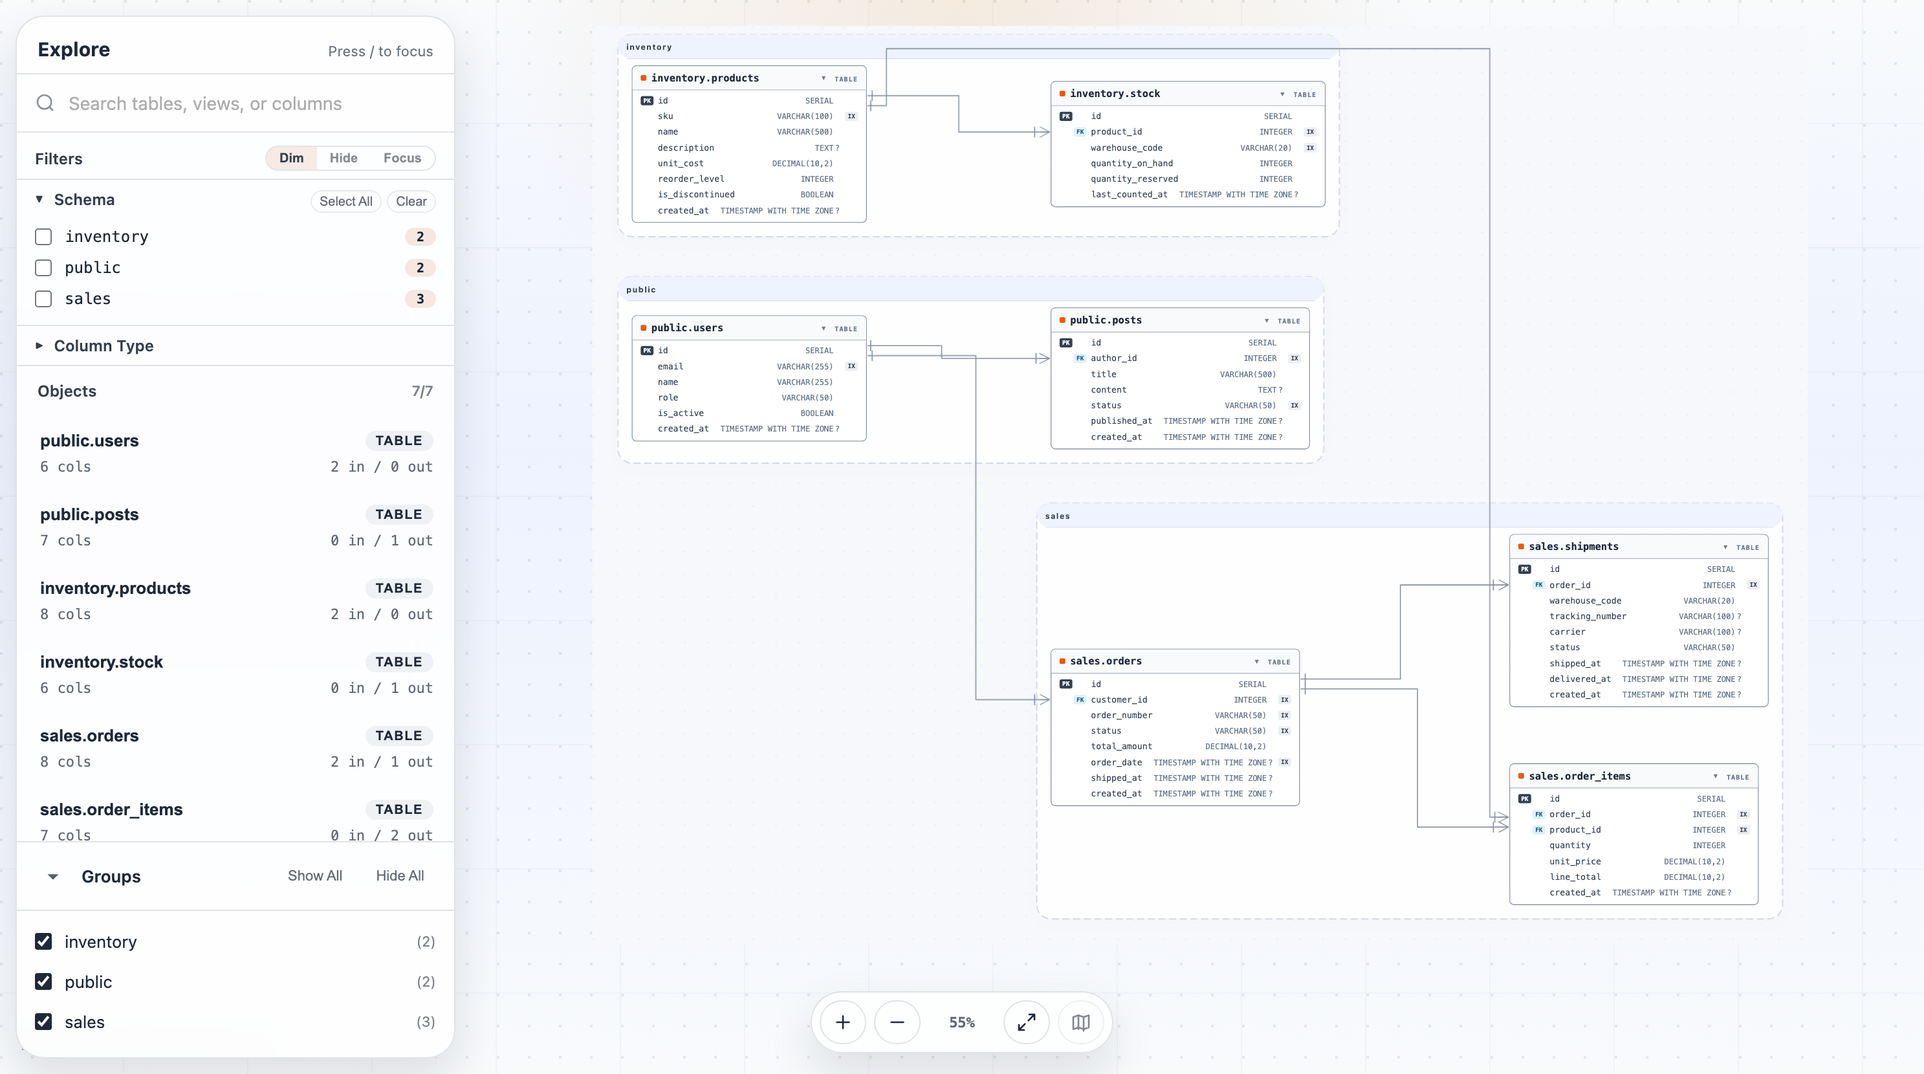
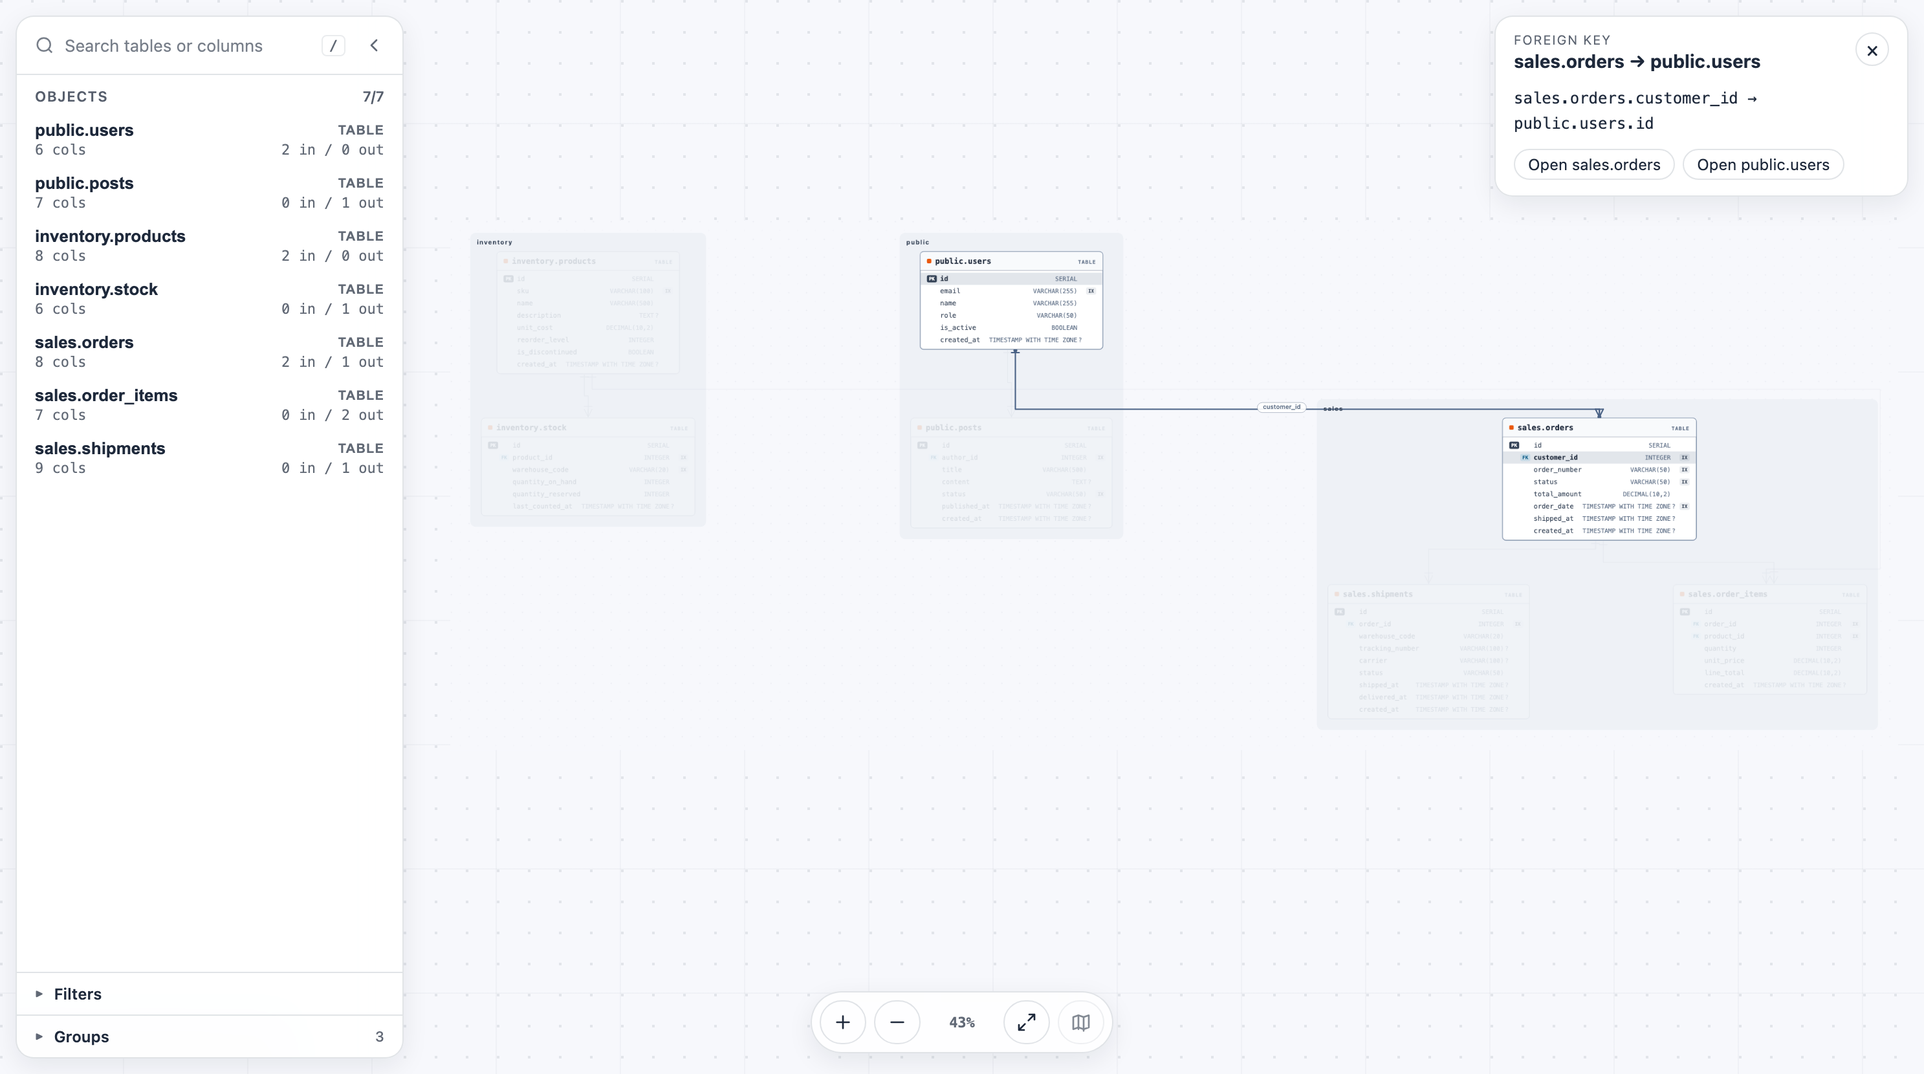
docs: describe group surfaces, the reworked viewer sidebar, and diff legends
The CLI reference covers how groups are drawn, the viewer's sidebar,
drawer, and minimap placement, its keyboard shortcuts and relationship
line navigation, what the URL hash records, and the diff legend; the
README and agent skill mention shareable relationship links and the
legend. ARCHITECTURE.md describes the shared badge and group colors,
the group boundary rule, and the viewer changes, and the README viewer
preview is re-captured with a relationship selected.

diff --git a/ARCHITECTURE.md b/ARCHITECTURE.md
@@ -254,9 +254,9 @@ CI job), and `make bench` times those layouts.
 
 ## 11. Rendering
 
-- **Theme** (`relune-render-theme`) — Shared palettes and theme-facing DTOs consumed by both renderers. `ThemeColors` includes `accent_color` for viewer controls and `selection_color`, the blue-grey used by both renderers for hovered, highlighted, and selected elements, so it never shares a hue with kind marks or review severities.
-- **SVG** (`relune-render-svg`) — Geometry, edge paths, labels, themes, optional embedded CSS. Tables, views, and enums share one positioned graph and are styled by node/edge kind. When a `DiagramOverlay` is provided (`diff` module), change kind and risk get separate visuals: a changed card is outlined in its change kind's color (`ThemeColors::diff`, dashed when removed) with a `+` / `−` / `~` marker in the header's text inset, a card added or removed as a whole is tinted throughout, and a changed row of a modified card gets a faint row tint and a marker in the inset, so marking needs no extra width; a changed type is drawn as `before → after` with the current type emphasized; changed relationship lines take the change color, a heavier stroke, and a dash when removed. Independently, a card with review findings gets a solid pill straddling its top border naming the highest severity and how many findings carry it (`breaking 1`, colors from `ThemeColors::risk`, whose magenta / orange / indigo / slate hues never repeat a change kind's green / red / amber, so a removed card's outline and its `breaking` label stay two signals). Tooltips list the change summary, its details, and every finding. Nodes, rows, and edges carry `diff-added` / `diff-removed` / `diff-modified` and `risk-<severity>` classes for downstream styling; unchanged cards keep their normal colors as context. Visual conventions: node cards use the theme's neutral surface, a 1px border, and a header divider, with the node kind shown only by a small colored mark before the table name; column rows draw the name left-aligned and the type right-aligned, with PK / FK badges, a `?` nullable marker, and the IX badge in fixed per-node slots (`relune_layout::metrics::ColumnSlots`) so they line up down the card; names and types share one clip per node; PK / FK / IX badges use per-theme colors that step down in weight (solid neutral PK, blue FK, grey IX), and the legend draws the same badges; edge arrow uses an open-chevron marker with `userSpaceOnUse` for constant size; cardinality markers use enlarged viewBoxes for density resilience. FK lines are thin strokes in the theme's quiet `edge_stroke`, while enum and view lines are dashed in their kind mark's hue; hovering a line recolours it in `selection_color`, with no glow or animation. Line labels stay in static SVG so the file reads on its own. Text and attribute values go through the shared escaper, which also replaces characters XML 1.0 forbids (C0 controls other than tab/newline/CR, U+FFFE, U+FFFF) with U+FFFD so the file always parses.
-- **HTML** (`relune-render-html`) — Wraps SVG with interactive behavior (pan/zoom, search, filters, grouping toggles, highlights) and embeds node/edge kind metadata for client-side features. Hover uses a lightweight popover plus subtle 1-hop preview, while click promotes a node into fixed selection and opens the detail drawer; highlighted tables are outlined in a per-theme blue-grey `--selection-color` rather than glowing, so selection never shares a hue with kind marks or warnings; neighbors that reference the focused table get a dashed outline and the tables it references a solid one, so direction reads without a second hue. Nodes are indexed once at load, and hover only touches the previewed neighborhood without rebuilding the object browser; clicking a line (each line is also a focusable button activated with Enter or Space), or a relationship in a table's drawer, selects that relationship: its path and ports, both endpoint tables, and every column on each end (all columns of a composite key) are emphasized, and a relation card in the drawer's place lists one `from.column → to.column` line per column pair. The card is a live region that takes focus when chosen from the keyboard, and closing it returns to the originating drawer. Each line gets a wide transparent hit path in the viewer only, so the thin stroke stays easy to click at any zoom, and focus that would scroll the clipped viewport is turned into a pan. Line labels are hidden in the viewer until a line is hovered, focused, highlighted, or selected. Search, the object browser, and URL restoration share one metadata matcher (names, schema, id, column names and types), so tooltip and badge text never match. Shareable URL hashes write list values (facets, hidden groups) as repeated parameters, and keyboard shortcuts ignore Ctrl/Cmd/Alt chords. When a `DiagramOverlay` is provided, each table's metadata (JSON) carries `diff_kind` and `diff_details`, each column `diff_kind` and `previous_data_type`, each edge `diff_kind`, and each table's review findings go into `issues` with their review severity. The detail drawer shows the change kind badge, a Changes list (including FK, index, and check changes), `before → after` types, and a Risks section listing each finding with its severity and mitigation; the hover popover and object browser show the same `breaking 1`-style risk label as the SVG, and the filter panel offers Changes and Risk facets. Viewer logic is TypeScript under `crates/relune-render-html/ts/`; bundled JS is committed under `crates/relune-render-html/src/js/` and consumed via `include_str!`. The pure state/action helpers (`*_state.ts`, `*_actions.ts`, edge dimming, viewer runtime) have unit tests, and the search, highlight, and URL-state modules are exercised against viewer markup; all are Vitest suites (`ts/*.test.ts`, happy-dom) run through `make test-html-viewer`. Node + pnpm are required for renderer development when regenerating those bundles, but Rust builds consume the committed assets without installing frontend dependencies at build time.
+- **Theme** (`relune-render-theme`) — Shared palettes and theme-facing DTOs consumed by both renderers. `ThemeColors` includes `selection_color`, the blue-grey used by both renderers for hovered, highlighted, and selected elements and by the viewer chrome, so it never shares a hue with kind marks or review severities; `badges` holds the PK / FK / IX badge colors that SVG cards and the viewer's detail drawer share; and `group_fill` / `group_stroke` give group surfaces and their occasional boundary.
+- **SVG** (`relune-render-svg`) — Geometry, edge paths, labels, themes, optional embedded CSS. Tables, views, and enums share one positioned graph and are styled by node/edge kind. When a `DiagramOverlay` is provided (`diff` module), change kind and risk get separate visuals: a changed card is outlined in its change kind's color (`ThemeColors::diff`, dashed when removed) with a `+` / `−` / `~` marker in the header's text inset, a card added or removed as a whole is tinted throughout, and a changed row of a modified card gets a faint row tint and a marker in the inset, so marking needs no extra width; a changed type is drawn as `before → after` with the current type emphasized; changed relationship lines take the change color, a heavier stroke, and a dash when removed. Independently, a card with review findings gets a solid pill straddling its top border naming the highest severity and how many findings carry it (`breaking 1`, colors from `ThemeColors::risk`, whose magenta / orange / indigo / slate hues never repeat a change kind's green / red / amber, so a removed card's outline and its `breaking` label stay two signals). Tooltips list the change summary, its details, and every finding. Nodes, rows, and edges carry `diff-added` / `diff-removed` / `diff-modified` and `risk-<severity>` classes for downstream styling; unchanged cards keep their normal colors as context. Visual conventions: node cards use the theme's neutral surface, a 1px border, and a header divider, with the node kind shown only by a small colored mark before the table name; column rows draw the name left-aligned and the type right-aligned, with PK / FK badges, a `?` nullable marker, and the IX badge in fixed per-node slots (`relune_layout::metrics::ColumnSlots`) so they line up down the card; names and types share one clip per node; PK / FK / IX badges use per-theme colors that step down in weight (solid neutral PK, blue FK, grey IX), and the legend draws the same badges, plus the change markers and a sample risk label when an overlay marks changes; groups are a faint `group_fill` surface with a small heading and no frame, band, or shadow, and get a thin solid boundary only when `ambiguous_groups` finds another group or a non-member card overlapping the surface; edge arrow uses an open-chevron marker with `userSpaceOnUse` for constant size; cardinality markers use enlarged viewBoxes for density resilience. FK lines are thin strokes in the theme's quiet `edge_stroke`, while enum and view lines are dashed in their kind mark's hue; hovering a line recolours it in `selection_color`, with no glow or animation. Line labels stay in static SVG so the file reads on its own. Text and attribute values go through the shared escaper, which also replaces characters XML 1.0 forbids (C0 controls other than tab/newline/CR, U+FFFE, U+FFFF) with U+FFFD so the file always parses.
+- **HTML** (`relune-render-html`) — Wraps SVG with interactive behavior (pan/zoom, search, filters, grouping toggles, highlights) and embeds node/edge kind metadata for client-side features. Hover uses a lightweight popover plus subtle 1-hop preview, while click promotes a node into fixed selection and opens the detail drawer; highlighted tables are outlined in a per-theme blue-grey `--selection-color` rather than glowing, so selection never shares a hue with kind marks or warnings; neighbors that reference the focused table get a dashed outline and the tables it references a solid one, so direction reads without a second hue. Nodes are indexed once at load, and hover only touches the previewed neighborhood without rebuilding the object browser; clicking a line (each line is also a focusable button activated with Enter or Space), or a relationship in a table's drawer, selects that relationship: its path and ports, both endpoint tables, and every column on each end (all columns of a composite key) are emphasized, and a relation card in the drawer's place lists one `from.column → to.column` line per column pair. The card is a live region that takes focus when chosen from the keyboard, and closing it returns to the originating drawer. Each line gets a wide transparent hit path in the viewer only, so the thin stroke stays easy to click at any zoom, and focus that would scroll the clipped viewport is turned into a pan. Line labels are hidden in the viewer until a line is hovered, focused, highlighted, or selected. Lines share one roving Tab stop; arrow keys, Home, and End move between lines that a hidden group or filter has not removed. The explorer sidebar leads with search and the object list, with Filters and Groups as collapsed `<details>` sections whose open state, like the sidebar's hidden state (`S`), persists in session storage; the detail drawer sizes to its content, the minimap steps left of an open drawer, the floating filter bar shows only while the sidebar is hidden, and hiding a group also hides its surface, label, and minimap rectangles. The drawer's key pills reuse the theme's badge colors. Search, the object browser, and URL restoration share one metadata matcher (names, schema, id, column names and types), so tooltip and badge text never match. Shareable URL hashes write list values (facets, hidden groups) as repeated parameters, record a selected relationship as `r=from(columns)>to(columns)` in place of the table selection,, and keyboard shortcuts ignore Ctrl/Cmd/Alt chords. When a `DiagramOverlay` is provided, each table's metadata (JSON) carries `diff_kind` and `diff_details`, each column `diff_kind` and `previous_data_type`, each edge `diff_kind`, and each table's review findings go into `issues` with their review severity. The detail drawer shows the change kind badge, a Changes list (including FK, index, and check changes), `before → after` types, and a Risks section listing each finding with its severity and mitigation; the hover popover and object browser show the same `breaking 1`-style risk label as the SVG, and the filter panel offers Changes and Risk facets. Viewer logic is TypeScript under `crates/relune-render-html/ts/`; bundled JS is committed under `crates/relune-render-html/src/js/` and consumed via `include_str!`. The pure state/action helpers (`*_state.ts`, `*_actions.ts`, edge dimming, viewer runtime) have unit tests, and the search, highlight, and URL-state modules are exercised against viewer markup; all are Vitest suites (`ts/*.test.ts`, happy-dom) run through `make test-html-viewer`. Node + pnpm are required for renderer development when regenerating those bundles, but Rust builds consume the committed assets without installing frontend dependencies at build time.
 
 The two crates are separate to keep low-level vector output apart from document bundling and JS tooling.
 

diff --git a/docs/cli-reference.md b/docs/cli-reference.md
@@ -136,6 +136,26 @@ relune render --schema-json schema.json -o from-json.svg
 
 Without `--density` (or a `density` config key), cards list every column, except that diagrams with more than 100 objects (tables, views, and enums) fall back to `overview`, and an info diagnostic (`LAYOUT001`) says so. An explicit density always wins. Zooming the HTML viewer never changes the density or the layout.
 
+### Groups
+
+`--group-by schema` or `--group-by prefix` draws each group as a faint surface behind its tables with a small heading. A thin boundary appears only where membership would otherwise be unclear, when another group or a table outside the group overlaps the surface.
+
+### HTML viewer
+
+The sidebar leads with search and the object list; **Filters** and **Groups** are collapsed sections that show how many filter values are active or how many groups are hidden. Selecting a table opens a detail drawer only as tall as its content, and selecting a relationship shows its column mapping in a small card. The minimap sits in the bottom-right corner and steps aside for an open drawer.
+
+| Key | Action |
+|-----|--------|
+| `/` | Focus search (bringing back a hidden sidebar) |
+| `S` | Hide or show the sidebar |
+| `G` | Open or close the Groups section |
+| `M` | Show or hide the minimap |
+| `F` | Fit the diagram to the window |
+| `+` / `-` | Zoom in / out |
+| `Esc` | Clear search, filters, and selection |
+
+Relationship lines share one Tab stop: Tab onto a line, move between lines with the arrow keys, Home, or End, and press Enter or Space to select one. The URL hash records the search, filters, hidden groups, viewport, minimap, and the selected table or relationship (`r=orders(customer_id)>customers(id)`), so a copied link reopens the same view.
+
 ---
 
 ## `inspect`
@@ -273,7 +293,7 @@ When rendering the diff as `svg` or `html` without `-o`, interactive terminals r
 
 Before comparing, `diff` and `review` treat objects in the default schema as unqualified when either input contains unqualified objects, so hand-written DDL (`CREATE TABLE users`) matches a schema exported from the database (`public.users`) instead of reporting every table as removed and re-added. The default schema is `public` for PostgreSQL, `main` for SQLite, and the connected database for MySQL (the schema shared by every object). Tables in other schemas, such as `auth.users`, stay qualified. When both inputs are fully qualified, names are reported as they are.
 
-The `svg` and `html` diagrams keep what changed apart from how risky it is. Added, removed, and modified tables, columns, and relationships are marked with `+` / `−` / `~` and a faint green / red / amber tint (a removed card or line is also dashed), and a column whose type changed reads `before → after` in its type slot, such as `varchar(500) → varchar(120)`. The risk comes from the `review` rules for the dialect both inputs resolve to, with the `[review]` config's `rules`, `except_rules`, `except_tables`, and `severity_overrides` applied, so the labels match what `relune review` reports with the same config: a card with findings carries a label naming the highest severity and how many findings have it (`breaking 1`, `caution 2`, ...), and its tooltip or the HTML viewer's Risks section lists every finding. An added column can therefore sit on a `breaking` card, and a modified one can carry no label at all. Unchanged tables keep their normal colors so they still read as context. When the two inputs resolve to different dialects, a `REVIEW002` warning explains why lock-risk labels are missing. With `density = "keys"` in `[diff]`, every changed column stays listed next to the key columns, so its marker and `before → after` type remain visible; `overview` cards show only the card-level marker.
+The `svg` and `html` diagrams keep what changed apart from how risky it is. Added, removed, and modified tables, columns, and relationships are marked with `+` / `−` / `~` and a faint green / red / amber tint (a removed card or line is also dashed), and a column whose type changed reads `before → after` in its type slot, such as `varchar(500) → varchar(120)`. The risk comes from the `review` rules for the dialect both inputs resolve to, with the `[review]` config's `rules`, `except_rules`, `except_tables`, and `severity_overrides` applied, so the labels match what `relune review` reports with the same config: a card with findings carries a label naming the highest severity and how many findings have it (`breaking 1`, `caution 2`, ...), and its tooltip or the HTML viewer's Risks section lists every finding. An added column can therefore sit on a `breaking` card, and a modified one can carry no label at all. Unchanged tables keep their normal colors so they still read as context. With `show_legend = true` under `[diff]`, the legend also explains the change markers and the risk label. When the two inputs resolve to different dialects, a `REVIEW002` warning explains why lock-risk labels are missing. With `density = "keys"` in `[diff]`, every changed column stays listed next to the key columns, so its marker and `before → after` type remain visible; `overview` cards show only the card-level marker.
 
 Within a table, an unnamed foreign key, index, or `CHECK` written in DDL matches the same constraint under the name the database generated for it (such as `orders_user_id_fkey` or `users_email_key`), so it is not reported as dropped and re-added; two differently named constraints stay a rename. Index predicates, expression keys, and `CHECK` expressions are compared with keyword case ignored, while text inside quoted literals and identifiers must match (`'Active'` → `'active'` is a change). Tables are paired by their `stable_id` (the `id` in schema JSON), so renaming a table there while keeping its `id` is reported as a modification of the same table.
 

diff --git a/skills/relune/SKILL.md b/skills/relune/SKILL.md
@@ -279,7 +279,7 @@ relune diff --before-schema-json old.json --after-schema-json new.json
 | `--fail-on-warning` | Non-zero exit on warnings | -- |
 | `--allow-invalid-schema` | Compare inputs with empty or duplicate table/column/view/enum names instead of failing (errors become `SCHEMA004` warnings) | off |
 
-Visual diffs (`svg` / `html`) mark each change's kind with `+` / `−` / `~` and a faint tint, write type changes as `before → after`, and label risky cards with the highest review severity and its count (`breaking 1`), using the same `[review]` rules, suppressed tables, and severity overrides as `relune review`. Change kind and risk are independent: read the marker for *what* changed and the label for *how risky* it is. With `density = "keys"` in `[diff]`, changed columns stay listed next to the key columns.
+Visual diffs (`svg` / `html`) mark each change's kind with `+` / `−` / `~` and a faint tint, write type changes as `before → after`, and label risky cards with the highest review severity and its count (`breaking 1`), using the same `[review]` rules, suppressed tables, and severity overrides as `relune review`. Change kind and risk are independent: read the marker for *what* changed and the label for *how risky* it is. With `density = "keys"` in `[diff]`, changed columns stay listed next to the key columns. With `show_legend = true` under `[diff]`, the legend explains both.
 
 File inputs are auto-detected by content (schema JSON works even without `.json` extension).
 

diff --git a/README.md b/README.md
@@ -73,7 +73,7 @@ structure easier to understand, communicate, and change safely.
 Generate schema diagrams as:
 
 - SVG for static documentation, design notes, and README assets
-- HTML for interactive exploration with pan, zoom, search, and filters
+- HTML for interactive exploration with pan, zoom, search, filters, and shareable links to a selected table or relationship
 
 Relune can render:
 
